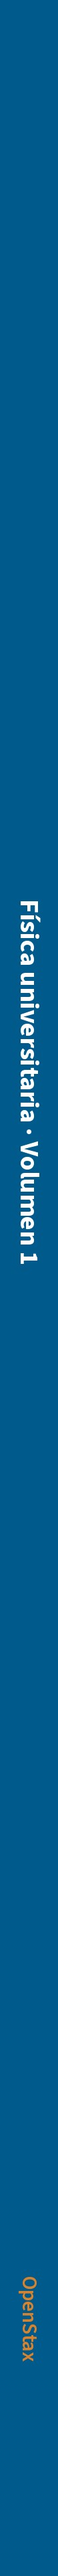
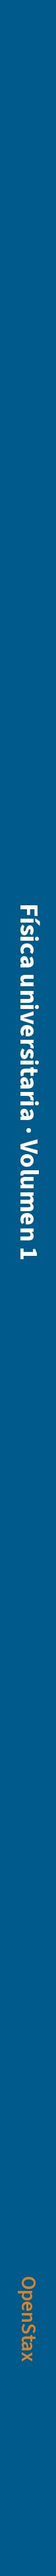
content(showcase): openstax-fisica — spine sized for the new page counts (#1355)

Changed region(s): [[0.3529, 0.3429, 0.7059, 0.4987], [0.4235, 0.8727, 0.4471, 0.9039]]

diff --git a/scripts/presets/showcase/openstax-fisica/build.py b/scripts/presets/showcase/openstax-fisica/build.py
@@ -596,7 +596,7 @@ def write_manifest(chapter_specs, resources, wording, fonts, chapters, images) -
 # book's blue, OpenStax in the orange of the examples; each edition sized
 # for about its own page count.
 SPINE = "spine"
-SPINE_PAGES = {"es": 126, "en": 84}
+SPINE_PAGES = {"es": 122, "en": 82}
 SPINE_TITLES = {"es": "Física universitaria · Volumen 1", "en": "Physics"}
 
 
